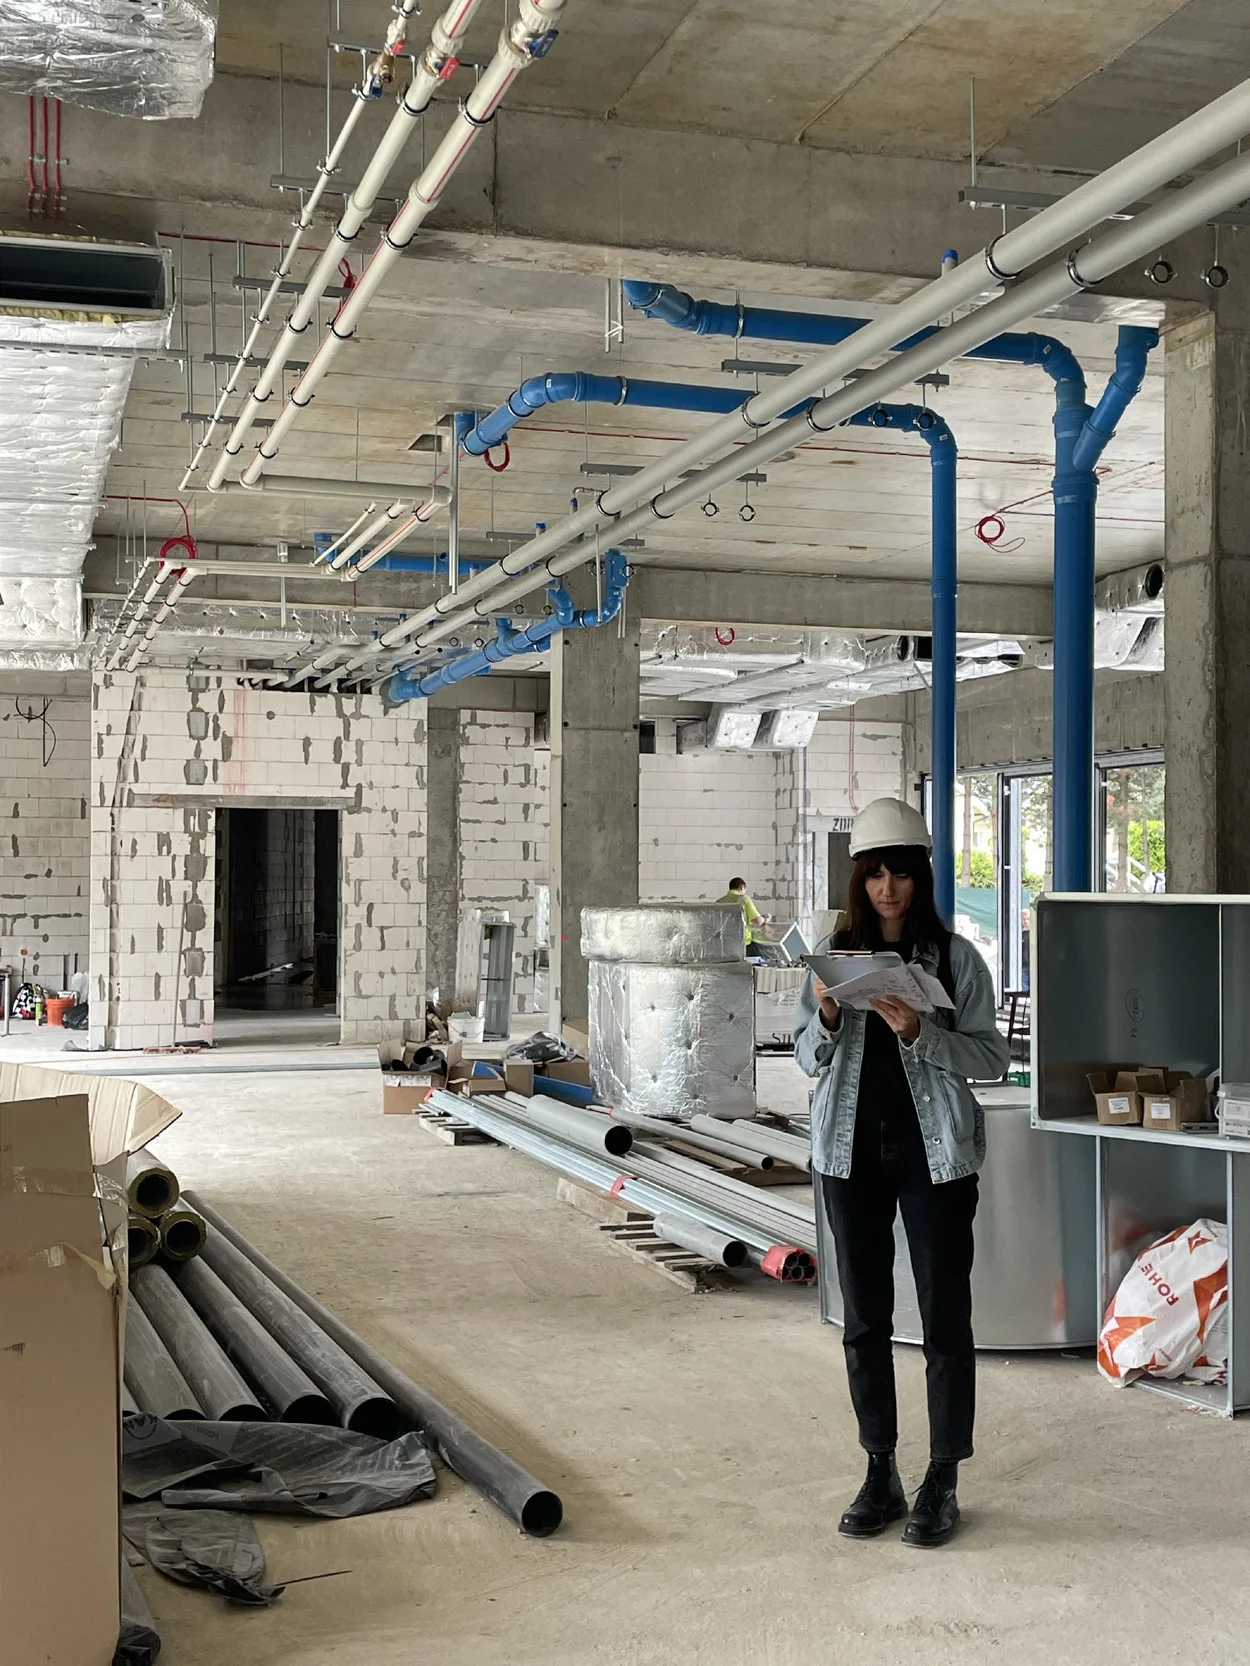
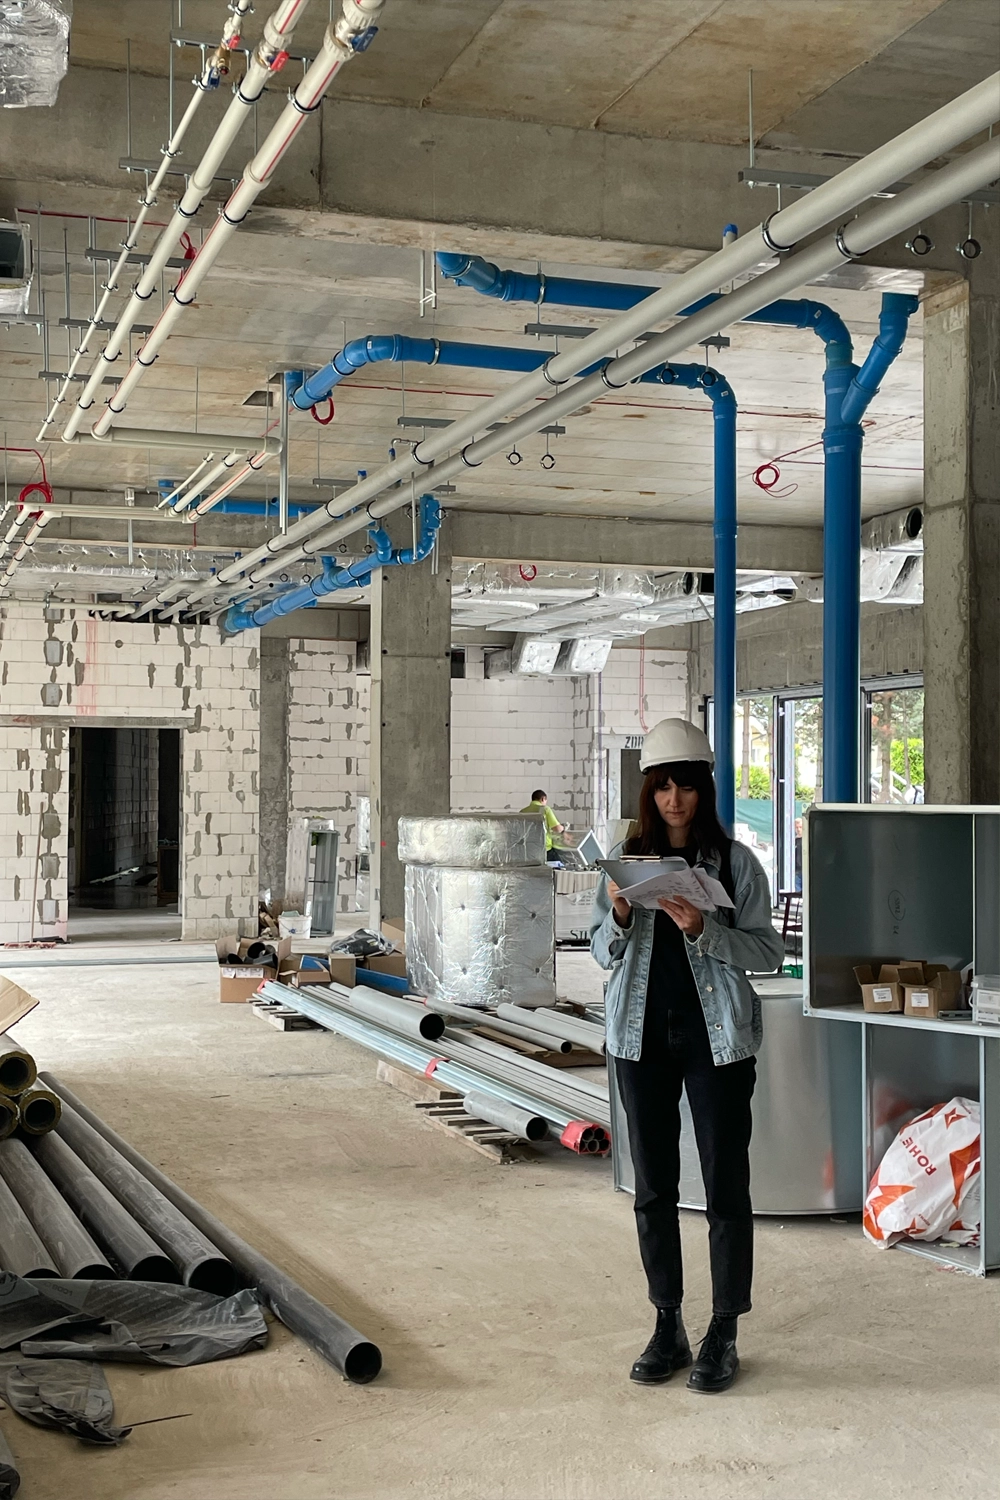
Use the delivered commercial photos on the interiors subpage
Swap in the designer's three final photos for /oferta/wnetrza-komercyjne:
a dedicated hero (red-panelled restaurant, replacing the borrowed
foodhall-piazza placeholder), and the construction-visit and material-
samples column images (both exactly 2:3, so they fill the ColumnImage
frame without cropping).

diff --git a/app/[locale]/oferta/wnetrza-komercyjne/page.tsx b/app/[locale]/oferta/wnetrza-komercyjne/page.tsx
@@ -7,7 +7,7 @@ import Navbar from '@/components/Navbar';
 import FooterBanner from '@/components/FooterBanner';
 import CommercialDetails from '@/components/oferta/CommercialDetails';
 
-const HERO_IMAGE = '/images/foodhall-piazza/kool_piazza_01.webp';
+const HERO_IMAGE = '/images/oferta/KOOL_oferta_komercyjne_hero.webp';
 
 const SOCIAL_IMAGE = '/images/social/offer-commercial.jpg';
 const PATH = '/oferta/wnetrza-komercyjne';
